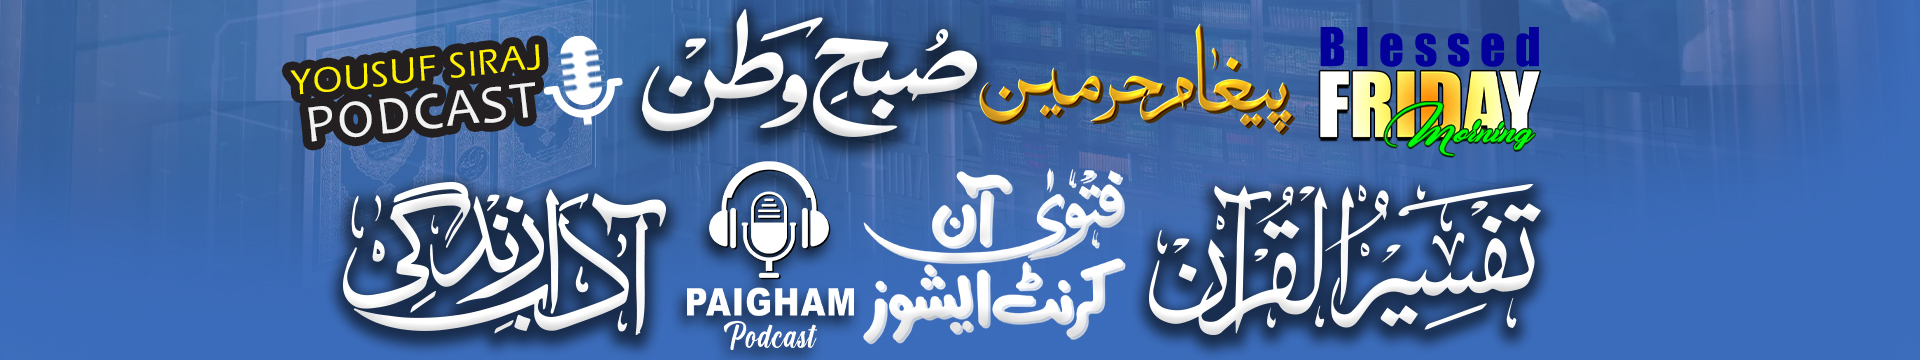
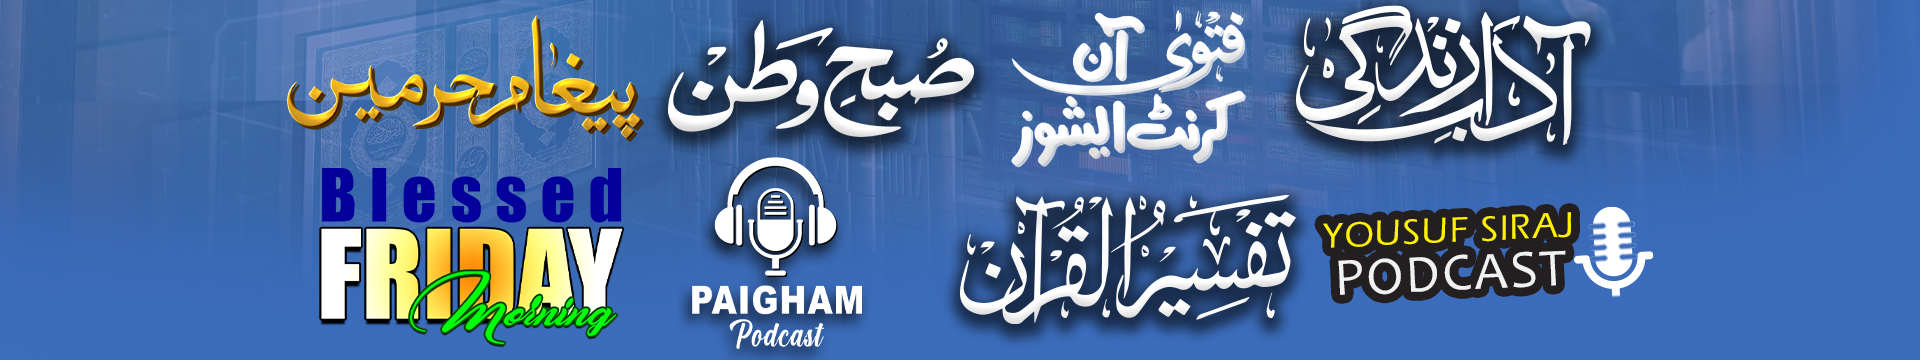
updated

diff --git a/src/components/pageBanner/PageBanner.tsx b/src/components/pageBanner/PageBanner.tsx
@@ -1,20 +1,45 @@
-import Image from 'next/image'
-import React from 'react'
+
+
+import React from "react";
 
 interface IPageBanner {
-  title: any,
-  image: string
+  title: any;
+  image: string;
+  mobile?: string; // optional
 }
 
-const PageBanner = ({ title, image }: IPageBanner) => {
+const PageBanner = ({ title, image, mobile }: IPageBanner) => {
   return (
-    <section className="relative ">
-      <img src={image} alt={title} width={1600} height={1400} className='w-full h-[110px] md:h-[350px] object-cover' />
-      <div className='bg-black/20 absolute inset-0 flex flex-col justify-center'>
-        <h2 className='text-center text-3xl md:text-5xl font-anton tracking-widest text-secondary uppercase'>{title}</h2>
+    <section className="relative">
+      <picture>
+        {/* Mobile image only if provided */}
+        {mobile && (
+          <img
+          src={mobile}
+          alt={title}
+          width={450}
+          height={450}
+          className="w-full h-[110px] md:h-[450px] object-cover"
+        />
+        )}
+
+        {/* Default image (desktop + fallback) */}
+        <img
+          src={image}
+          alt={title}
+          width={1600}
+          height={1400}
+          className="w-full h-[110px] md:h-[350px] object-cover"
+        />
+      </picture>
+
+      <div className="bg-black/20 absolute inset-0 flex flex-col justify-center">
+        <h2 className="text-center text-3xl md:text-5xl font-anton tracking-widest text-secondary uppercase">
+          {title}
+        </h2>
       </div>
     </section>
-  )
-}
+  );
+};
 
-export default PageBanner
+export default PageBanner;

diff --git a/src/pages/programs/index.tsx b/src/pages/programs/index.tsx
@@ -14,7 +14,7 @@ export default function SeriesPrograms({ allCategories }: any) {
         url="/programs"
         description="Paigham TV is a satellite TV channel the objectives of which are preaching the true teachings of the Holy Quran and Sunnah "
       />
-      <PageBanner title="" image="/images/program.jpg" />
+      <PageBanner title="" image="/images/program.jpg" mobile="/images/program_mobile.jpg" />
       {/* <section className="pb-28 md:pt-20 bg-[#161F28]">
         {allScholars?.map((item: any, idx: any) => (
           <CategoryCard key={idx} items={item} />
